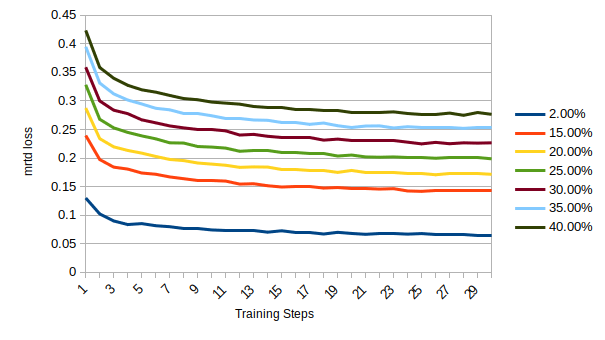
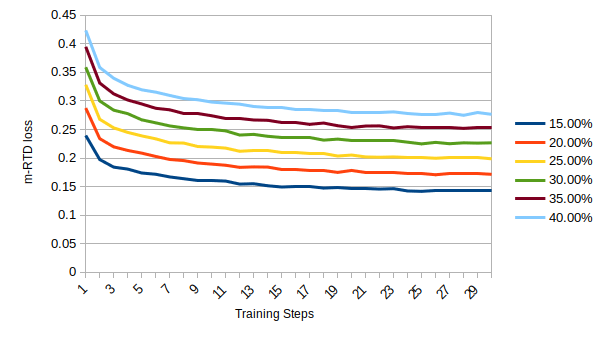
update method

diff --git a/chapters/4-design_and_implementation.tex b/chapters/4-design_and_implementation.tex
@@ -39,7 +39,7 @@ In this section, we introduce the experimental methods designed to evaluate the 
 
 % explain about the parameters based on the model image and loss function
 
-\subsection{Masking Ratio for Masked Language Modeling} 
+\section{Masking Ratio for Masked Language Modeling} 
 A Masked Language Model (MLM) is a type of neural network model used primarily for natural language processing tasks, including (\cite{devlin2018bert} and \cite{Bai2023RaSaRA}). MLMs are trained on text data where some of the words in the input sentences are replaced with a special token (often "[MASK]"), and the model's objective is to predict the original words that were masked. This training method helps the model learns to capture the semantics and syntax of the language, making it effective for various NLP tasks such as text classification, sentiment analysis, and machine translation.
 
 During training, a portion of the input tokens are randomly masked, and the model learns to predict these masked tokens based on the surrounding context. For example, in the sentence "The cat sat on the [MASK]," the model should predict "mat" if it has learned the context correctly. For each image and text pair ($I,T^S$), MLM loss will be formulated as:
@@ -112,6 +112,9 @@ RaSa utilizes a loss function called replaced token detection to create a task c
 Sensitivity aware aims to make the model sensitive to specific transformations in the data, particularly textual changes. While many models aim to learn invariant representations that are robust to various data augmentations, RaSa takes it further by encouraging the model to detect and respond to sensitive transformations, such as word replacements in text. This is done using a Momentum-based Replaced Token Detection (M-RTD) task, where the model learns to detect whether a token in the text has been replaced. This sensitivity to changes enhances the robustness and discrimination power of the representations learned by the model.
 {\color{red}further explanation about sensitivity aware}
 
+\subsection{Fixed Masking Ratio}
+We will train the m-RTD with the same method as the previous section. 
+
 
 \begin{table}[htbp]
   \centering
@@ -140,6 +143,7 @@ Sensitivity aware aims to make the model sensitive to specific transformations i
 \end{figure}
 
 
+\subsection{Time Variant Masking Ratio}
 Below shows the time variant masking ratio on m-RTD
 
 \begin{table}[htbp]
@@ -148,7 +152,7 @@ Below shows the time variant masking ratio on m-RTD
   \begin{tabular}{rcccc}
     \centering
     masking ratio & r1 & r5 & r10 & mAP\\ \hline
-    linear increase & 76.62 & 89.88 & 93.62 & \textbf{70.36} \\
+    linear increase & 76.20 & 90.11 & 93.94 & 70.22 \\
     linear decrease & \textbf{76.70} & 89.85 & 93.58 & 70.21 \\
     cosine increase & 75.91 & 89.85 & 93.89 & 68.40 \\
     cosine decrease & 75.99 & 90.25 & 94.01 & 68.73 \\
@@ -176,47 +180,39 @@ One significant advantage of this method is its class-discriminative nature. Gra
 Below are the results achieved from the MLM with different masking ratio.
 
 \begin{figure}[htbp]
-  \includegraphics[width=\linewidth]{img/mrtd_masking_ratio/mrtd-checkpoint_15_flat.png}
+  \includegraphics[width=\linewidth]{img/mlm/checkpoint_15_flat.png}
   \caption{Visual grounding for masking rate of 15}
   \label{fig:mlm_1}
 \end{figure}
 
 \begin{figure}[htbp]
-  \includegraphics[width=\linewidth]{img/mrtd_masking_ratio/mrtd-checkpoint_20_flat.png}
+  \includegraphics[width=\linewidth]{img/mlm/checkpoint_20_flat.png}
   \caption{Visual grounding for masking rate of 20}
   \label{fig:mlm_2}
 \end{figure}
 
 \begin{figure}[htbp]
-  \includegraphics[width=\linewidth]{img/mrtd_masking_ratio/mrtd-checkpoint_25_flat.png}
+  \includegraphics[width=\linewidth]{img/mlm/checkpoint_25_flat.png}
   \caption{Visual grounding for masking rate of 25} 
   \label{fig:mlm_3} 
 \end{figure}
 
 \begin{figure}[htbp]
-  \includegraphics[width=\linewidth]{img/mrtd_masking_ratio/mrtd-checkpoint_30_flat.png}
+  \includegraphics[width=\linewidth]{img/mlm/checkpoint_30_flat.png}
   \caption{Visual grounding for masking rate of 30}
   \label{fig:mlm_4}
 \end{figure}
 
 \begin{figure}[htbp]
-  \includegraphics[width=\linewidth]{img/mrtd_masking_ratio/mrtd-checkpoint_35_flat.png}
+  \includegraphics[width=\linewidth]{img/mlm/checkpoint_35_flat.png}
   \caption{Visual grounding for masking rate of 35}
   \label{fig:mlm_5}
 \end{figure}
 
 \begin{figure}[htbp]
-  \includegraphics[width=\linewidth]{img/mrtd_masking_ratio/mrtd-checkpoint_40_flat.png}
+  \includegraphics[width=\linewidth]{img/mlm/checkpoint_40_flat.png}
   \caption{Visual grounding for masking rate of 40}
   \label{fig:mlm_6}
-\end{figure}
-
-
-
-\begin{figure}[htbp]
-  \includegraphics[width=\linewidth]{img/placeholder.png}
-  \caption{placeholder for visual grounding on MLM}
-  \label{mlm_1}
 \end{figure}
 
 
